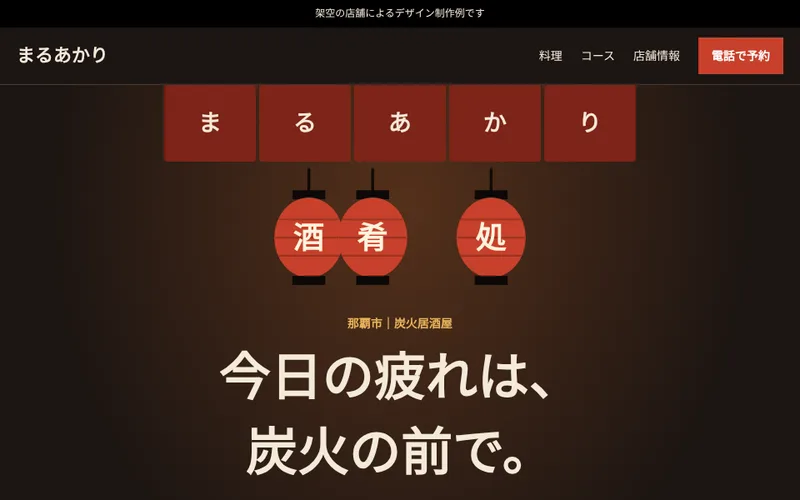
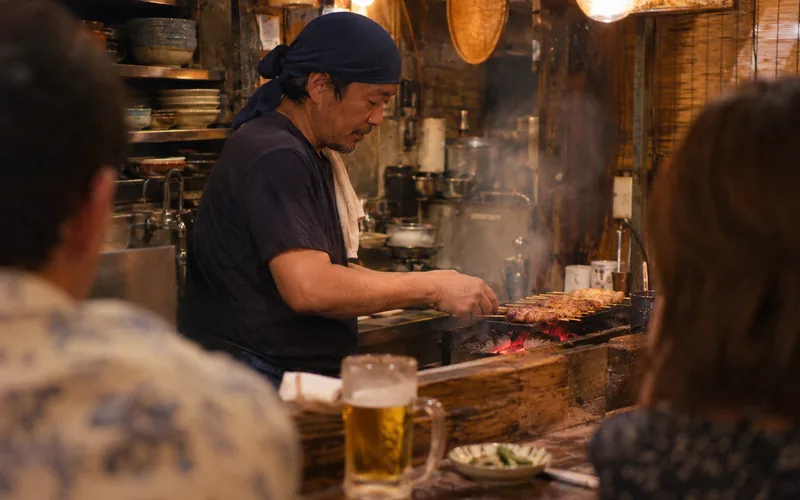
まるあかり: 自作イラストを生成写真に差し替え、写真中心のデザインに変更
Claude-Session: https://claude.ai/code/session_01K3RG3jWkUuDhs7smsqdQjQ

diff --git a/izakaya-lp/index.html b/izakaya-lp/index.html
@@ -7,6 +7,7 @@
 <meta name="description" content="那覇市の炭火居酒屋を想定したページです。焼き鳥と島の料理、宴会コース。※架空の店舗によるデザイン制作例です。">
 <link rel="canonical" href="https://agarieyrn-create.github.io/izakaya-lp/">
 <meta property="og:url" content="https://agarieyrn-create.github.io/izakaya-lp/">
+<meta property="og:image" content="https://agarieyrn-create.github.io/izakaya-lp/img/og.jpg">
 <meta property="og:type" content="website">
 <meta property="og:title" content="炭火居酒屋 まるあかり（架空の店舗）">
 <meta property="og:description" content="炭火焼き鳥と島の料理。※架空の店舗によるデザイン制作例です。">
@@ -16,7 +17,6 @@
 <link href="https://fonts.googleapis.com/css2?family=Noto+Sans+JP:wght@400;500;700&family=Noto+Serif+JP:wght@700;900&display=swap" rel="stylesheet">
 <link rel="stylesheet" href="style.css">
 <link rel="stylesheet" href="motion.css">
-<link rel="stylesheet" href="extra.css">
 </head>
 <body>
 <p class="demo">架空の店舗によるデザイン制作例です</p>
@@ -24,9 +24,8 @@
 
 <main id="top">
   <div class="hero">
-    <div class="noren" aria-hidden="true"><i>ま</i><i>る</i><i>あ</i><i>か</i><i>り</i></div>
+    <div class="shot"><img src="img/counter.webp" srcset="img/counter-800.webp 800w, img/counter.webp 1536w" sizes="100vw" width="1536" height="1024" alt="炭火の焼き台で焼き鳥を返す大将と、カウンターで待つ客の後ろ姿（イメージ）" fetchpriority="high"></div>
     <div class="wrap">
-      <svg class="lanterns" viewBox="0 0 300 140" aria-hidden="true"><g transform="translate(10,0)"><g class="lan a"><path class="cord" d="M40 0v26"/><rect class="cap" x="22" y="24" width="36" height="10"/><ellipse class="paper" cx="40" cy="76" rx="38" ry="44"/><path class="rib" d="M7 56h66M3 76h74M7 96h66"/><rect class="cap" x="22" y="118" width="36" height="10"/><text x="40" y="88">酒</text></g></g><g transform="translate(80,0)"><g class="lan b"><path class="cord" d="M40 0v26"/><rect class="cap" x="22" y="24" width="36" height="10"/><ellipse class="paper" cx="40" cy="76" rx="38" ry="44"/><path class="rib" d="M7 56h66M3 76h74M7 96h66"/><rect class="cap" x="22" y="118" width="36" height="10"/><text x="40" y="88">肴</text></g></g><g transform="translate(210,0)"><g class="lan c"><path class="cord" d="M40 0v26"/><rect class="cap" x="22" y="24" width="36" height="10"/><ellipse class="paper" cx="40" cy="76" rx="38" ry="44"/><path class="rib" d="M7 56h66M3 76h74M7 96h66"/><rect class="cap" x="22" y="118" width="36" height="10"/><text x="40" y="88">処</text></g></g></svg>
       <div class="copy">
         <p class="sub">那覇市｜炭火居酒屋</p>
         <h1>今日の疲れは、<br>炭火の前で。</h1>
@@ -37,22 +36,26 @@
     </div>
   </div>
 
-  <section class="x-sec x-demo x-fire" data-demo="4000,5000,4000">
-    <div class="wrap">
-      <p class="label">01　炭火</p>
+  <section class="fire" id="fire">
+    <div class="fire-shot"><img src="img/sumibi.webp" srcset="img/sumibi-800.webp 800w, img/sumibi.webp 1536w" sizes="(max-width:820px) 100vw, 62vw" width="1536" height="1024" alt="赤く熾った炭の上で、焼き鳥の串を返す手元（イメージ）" data-nopar><div class="embers" aria-hidden="true"></div><button type="button" class="stop" hidden>動きを止める</button></div>
+    <div class="fire-text">
       <h2>一本ずつ、<br>目の前で焼きます。</h2>
-      <div class="x-grid">
-        <div class="x-stage"><svg viewBox="0 0 280 240" aria-hidden="true"><g class="glow"><ellipse cx="140" cy="186" rx="118" ry="34"/></g><rect x="24" y="168" width="232" height="46" rx="8" fill="#3a3330"/><g class="coal"><circle cx="56" cy="178" r="13"/><circle cx="86" cy="186" r="13"/><circle cx="116" cy="176" r="13"/><circle cx="146" cy="186" r="13"/><circle cx="176" cy="176" r="13"/><circle cx="206" cy="186" r="13"/><circle cx="230" cy="176" r="13"/></g><g class="flame"><path d="M80 172q-16-18 0-44q18 26 0 44z"/><path d="M140 172q-16-18 0-44q18 26 0 44z"/><path d="M200 172q-16-18 0-44q18 26 0 44z"/></g><g class="smoke"><path d="M96 80q-18-20 0-40"/><path d="M142 74q18-22 0-46"/><path d="M188 80q-16-18 0-38"/></g><g class="skewer"><path d="M20 112h240" stroke="#c9a46a" stroke-width="4" stroke-linecap="round"/><rect x="52" y="100" width="24" height="24" rx="8" fill="#9c5422"/><path d="M57 107l12 10" stroke="#4d2410" stroke-width="3"/><rect x="80" y="100" width="24" height="24" rx="8" fill="#9c5422"/><path d="M85 107l12 10" stroke="#4d2410" stroke-width="3"/><rect x="108" y="100" width="24" height="24" rx="8" fill="#9c5422"/><path d="M113 107l12 10" stroke="#4d2410" stroke-width="3"/><rect x="134" y="100" width="24" height="24" rx="8" fill="#9c5422"/><path d="M139 107l12 10" stroke="#4d2410" stroke-width="3"/><g transform="translate(80,0)"><rect x="80" y="100" width="24" height="24" rx="8" fill="#9c5422"/><rect x="108" y="100" width="24" height="24" rx="8" fill="#9c5422"/></g></g><g class="sauce"><path d="M92 30q14 30 40 66"/></g></svg></div>
-        <div><div class="x-tabs" role="group" aria-label="工程を選ぶ"><button type="button" data-go="0" aria-pressed="false">仕込む</button><button type="button" data-go="1" aria-pressed="false">焼く</button><button type="button" data-go="2" aria-pressed="false">仕上げる</button></div><div class="x-panels"><div data-panel="0"><b>昼のうちに、串打ち</b><p>大きさをそろえて、一本ずつ串に刺します。</p></div><div data-panel="1"><b>炭火で、じっくり</b><p>火の近くで返しながら、外は香ばしく、中はふっくら。</p></div><div data-panel="2"><b>塩か、たれで</b><p>焼きたてを、そのままお席へお運びします。</p></div></div><button type="button" class="x-play" data-play>動きを止める</button></div>
-      </div>
+      <ol class="steps3">
+        <li><b>昼のうちに、串打ち</b>大きさをそろえて、一本ずつ串に刺します。</li>
+        <li><b>炭火で、じっくり</b>返しながら、外は香ばしく、中はふっくら。</li>
+        <li><b>塩か、たれで</b>焼きたてを、そのままお席へお運びします。</li>
+      </ol>
     </div>
   </section>
 
   <section class="sec tint" id="menu">
     <div class="wrap">
-      <p class="label">02　料理</p>
       <h2>まずは、この三品。</h2>
-      <div class="dishes"><div class="item dish"><div class="art"><svg viewBox="0 0 200 130" aria-hidden="true"><ellipse cx="100" cy="92" rx="86" ry="28" fill="#e9e1d2"/><ellipse cx="100" cy="88" rx="68" ry="20" fill="#d8cdb9"/><path d="M30 66h140" stroke="#c9a46a" stroke-width="4" stroke-linecap="round"/><rect x="52" y="54" width="24" height="24" rx="8" fill="#9c5422"/><path d="M57 61l12 10" stroke="#4d2410" stroke-width="3"/><rect x="80" y="54" width="24" height="24" rx="8" fill="#9c5422"/><path d="M85 61l12 10" stroke="#4d2410" stroke-width="3"/><rect x="108" y="54" width="24" height="24" rx="8" fill="#9c5422"/><path d="M113 61l12 10" stroke="#4d2410" stroke-width="3"/><rect x="134" y="54" width="24" height="24" rx="8" fill="#9c5422"/><path d="M139 61l12 10" stroke="#4d2410" stroke-width="3"/><path d="M30 94h140" stroke="#c9a46a" stroke-width="4" stroke-linecap="round"/><rect x="52" y="82" width="24" height="24" rx="8" fill="#9c5422"/><path d="M57 89l12 10" stroke="#4d2410" stroke-width="3"/><rect x="80" y="82" width="24" height="24" rx="8" fill="#9c5422"/><path d="M85 89l12 10" stroke="#4d2410" stroke-width="3"/><rect x="108" y="82" width="24" height="24" rx="8" fill="#9c5422"/><path d="M113 89l12 10" stroke="#4d2410" stroke-width="3"/><rect x="134" y="82" width="24" height="24" rx="8" fill="#9c5422"/><path d="M139 89l12 10" stroke="#4d2410" stroke-width="3"/></svg></div><h3>炭火焼き鳥 盛り合わせ</h3><p>5本　塩・たれ</p><em>¥880</em></div><div class="item dish"><div class="art"><svg viewBox="0 0 200 130" aria-hidden="true"><ellipse cx="100" cy="92" rx="86" ry="28" fill="#e9e1d2"/><ellipse cx="100" cy="88" rx="68" ry="20" fill="#d8cdb9"/><path d="M48 88q8-46 52-44t54 44q-52 22-106 0z" fill="#6f9a3c"/><circle cx="72" cy="76" r="9" fill="none" stroke="#4f7a28" stroke-width="5"/><circle cx="112" cy="62" r="9" fill="none" stroke="#4f7a28" stroke-width="5"/><circle cx="132" cy="82" r="9" fill="none" stroke="#4f7a28" stroke-width="5"/><rect x="86" y="72" width="17" height="14" rx="3" fill="#f4e7c4"/><rect x="98" y="86" width="17" height="14" rx="3" fill="#f2c230"/><rect x="62" y="86" width="17" height="14" rx="3" fill="#f4e7c4"/><rect x="108" y="76" width="17" height="14" rx="3" fill="#c9775a"/></svg></div><h3>ゴーヤーチャンプルー</h3><p>島豆腐と卵で</p><em>¥780</em></div><div class="item dish"><div class="art"><svg viewBox="0 0 200 130" aria-hidden="true"><ellipse cx="100" cy="92" rx="86" ry="28" fill="#e9e1d2"/><ellipse cx="100" cy="88" rx="68" ry="20" fill="#d8cdb9"/><path d="M52 64l22-10 22 10v20l-22 10-22-10z" fill="#ede6f0"/><path d="M52 64l22 10 22-10-22-10z" fill="#fbf8fc"/><path d="M104 70l22-10 22 10v20l-22 10-22-10z" fill="#ede6f0"/><path d="M104 70l22 10 22-10-22-10z" fill="#fbf8fc"/><circle cx="122" cy="66" r="7" fill="#6f9a3c"/></svg></div><h3>自家製ジーマーミ豆腐</h3><p>もっちり、甘めのたれで</p><em>¥480</em></div></div>
+      <div class="dishes">
+        <figure class="item dish big"><img src="img/yakitori.webp" srcset="img/yakitori-800.webp 800w, img/yakitori.webp 1536w" sizes="(max-width:820px) 100vw, 960px" width="1536" height="1024" alt="焼き物の角皿に並んだ焼き鳥5本とレモン（イメージ）"><figcaption><h3>炭火焼き鳥 盛り合わせ</h3><em>¥880</em><p>5本　塩・たれ</p></figcaption></figure>
+        <figure class="item dish"><img src="img/goya.webp" srcset="img/goya-800.webp 800w, img/goya.webp 1536w" sizes="(max-width:820px) 100vw, 470px" width="1536" height="1024" alt="やちむんの皿に盛ったゴーヤーチャンプルー（イメージ）"><figcaption><h3>ゴーヤーチャンプルー</h3><em>¥780</em><p>島豆腐と卵、ポークで</p></figcaption></figure>
+        <figure class="item dish"><img src="img/jimami.webp" srcset="img/jimami-800.webp 800w, img/jimami.webp 1536w" sizes="(max-width:820px) 100vw, 470px" width="1536" height="1024" alt="小鉢に盛ったジーマーミ豆腐とわさび（イメージ）"><figcaption><h3>自家製ジーマーミ豆腐</h3><em>¥480</em><p>もっちり、甘めのたれで</p></figcaption></figure>
+      </div>
       <div class="price">
         <div class="row"><div>ラフテー</div><em>¥850</em></div>
         <div class="row"><div>海ぶどう</div><em>¥680</em></div>
@@ -61,13 +64,12 @@
         <div class="row"><div>泡盛（グラス）</div><em>¥450</em></div>
         <div class="row"><div>シークヮーサージュース</div><em>¥380</em></div>
       </div>
-      <p class="note">※料金は税込です。料理の絵はイメージです。すべて架空の内容です。</p>
+      <p class="note">※料金は税込です。写真はイメージです。すべて架空の内容です。</p>
     </div>
   </section>
 
   <section class="sec" id="course">
     <div class="wrap">
-      <p class="label">03　宴会コース</p>
       <h2>人数を入れると、<br>合計がわかります。</h2>
       <div class="calc">
         <fieldset><legend>コース</legend>
@@ -85,7 +87,6 @@
 
   <section class="sec tint" id="info">
     <div class="wrap">
-      <p class="label">04　店舗情報</p>
       <h2>お待ちしています。</h2>
       <dl>
         <div class="row"><dt>住所</dt><dd>沖縄県那覇市○○1-2-3（架空）</dd></div>
@@ -105,11 +106,11 @@
   </section>
 </main>
 
-<footer><div class="wrap">このページは、架空の居酒屋「まるあかり」によるデザイン制作例です。住所・電話番号・料金を含む掲載情報はすべて架空で、実在の店舗とは関係ありません。<p class="back"><a href="https://agarieyrn-create.github.io/">制作サイト一覧へ戻る</a></p></div></footer>
+<footer><div class="wrap">このページは、架空の居酒屋「まるあかり」によるデザイン制作例です。住所・電話番号・料金を含む掲載情報はすべて架空で、実在の店舗とは関係ありません。写真は画像生成AIで作成したイメージで、実在の人物・店・料理を撮影したものではありません。<p class="back"><a href="https://agarieyrn-create.github.io/">制作サイト一覧へ戻る</a></p></div></footer>
 <nav class="bar" aria-label="ご予約"><a class="main" href="#" data-link="tel">電話で予約</a><a href="#" data-link="map">地図</a></nav>
 <script src="links.js" defer></script>
 <script src="motion.js" defer></script>
-<script src="extra.js" defer></script>
+<script src="fire.js" defer></script>
 <script src="calc.js" defer></script>
 </body>
 </html>

diff --git a/izakaya-lp/style.css b/izakaya-lp/style.css
@@ -3,7 +3,7 @@
 html{scroll-behavior:smooth;scroll-padding-top:16px}
 body{font-family:"Noto Sans JP",sans-serif;background:var(--bg);color:var(--ink);line-height:1.9;font-size:16px;-webkit-font-smoothing:antialiased}
 a{color:inherit}
-h1,h2,.brand,.noren{font-family:"Noto Serif JP",serif}
+h1,h2,.brand{font-family:"Noto Serif JP",serif}
 .wrap{max-width:1000px;margin:0 auto;padding:0 20px}
 .demo{background:#000;text-align:center;font-size:12px;padding:5px}
 header{border-bottom:1px solid var(--line)}
@@ -12,27 +12,56 @@ header .wrap{display:flex;justify-content:space-between;align-items:center;min-h
 header nav{display:flex;gap:22px;align-items:center;font-size:14px}
 header nav a{text-decoration:none}
 .btn-s{background:var(--accent);color:#fff;padding:9px 16px;font-weight:700;white-space:nowrap}
-.hero{position:relative;text-align:center;padding:0 0 64px;overflow:hidden;background:radial-gradient(ellipse at 50% 20%,rgba(233,120,50,.28),transparent 62%)}
-.noren{display:flex;justify-content:center;gap:4px;height:92px}
-.noren i{font-style:normal;font-weight:900;font-size:28px;width:min(19%,110px);background:#7d2418;display:grid;place-items:center;border-radius:0 0 4px 4px;transform-origin:top}
-.lanterns{display:block;width:min(100%,360px);margin:8px auto 20px;padding:0 16px;overflow:visible}
-.lan .paper{fill:var(--accent)}.lan .rib{stroke:rgba(0,0,0,.22);stroke-width:2;fill:none}.lan .cap{fill:#0d0908}.lan .cord{stroke:#0d0908;stroke-width:3}
-.lan text{font:900 34px "Noto Serif JP",serif;fill:#fff3dd;text-anchor:middle}
-.sub{color:var(--gold);font-weight:700;font-size:14px}
+.hero{position:relative;padding-bottom:48px}
+.shot{overflow:hidden;aspect-ratio:3/2;max-height:78vh;width:100%}
+.shot img{display:block;width:100%;height:100%;object-fit:cover;object-position:45% 35%}
+@media(min-width:1100px){
+  .hero{display:flex;align-items:flex-end;min-height:min(680px,66.6vw);padding:0;overflow:hidden}
+  .shot{position:absolute;inset:0;aspect-ratio:auto;max-height:none}
+  .shot::after{content:"";position:absolute;inset:0;background:linear-gradient(90deg,rgba(15,9,6,.86) 0,rgba(15,9,6,.62) 36%,transparent 64%),linear-gradient(0deg,rgba(15,9,6,.7),transparent 45%);z-index:1}
+  .shot img{object-position:center 30%}
+  .hero .wrap{position:relative;z-index:2;width:100%;max-width:none;padding:0 clamp(40px,5vw,110px) 48px}
+  .hero .copy{max-width:480px}
+  .hero .actions .btn{flex:1 1 100%}
+  h1{font-size:clamp(36px,4.2vw,52px)}
+}
+.sub{color:var(--gold);font-weight:700;font-size:14px;margin-top:24px}
+@media(min-width:1100px){.sub{margin:0}}
+@media(max-width:1099px){.hero .wrap{max-width:720px}.fire{grid-template-columns:1fr}.fire-text{padding:32px 20px 48px;width:100%;max-width:720px;margin:0 auto}}
 h1{font-size:clamp(34px,7vw,62px);line-height:1.45;margin-top:8px}
 h2{font-size:clamp(26px,4vw,38px);line-height:1.55}
 .lead,.hours{margin-top:16px}.hours{font-size:14px;color:#cdbca6}
 .actions{display:flex;flex-wrap:wrap;gap:12px;margin-top:28px}
-.hero .actions{justify-content:center}
 .btn{display:inline-block;text-decoration:none;font-weight:700;padding:15px 26px;border:2px solid var(--ink);text-align:center;line-height:1.6}
 .btn.primary{background:var(--accent);border-color:var(--accent);color:#fff}
 .sec{padding:72px 0}.tint{background:var(--tint)}
 .label{font-size:13px;letter-spacing:.2em;color:var(--gold);margin-bottom:10px}
 .note{margin-top:14px;font-size:12px;color:#bfae98}
-.dishes{display:grid;grid-template-columns:repeat(3,1fr);gap:20px;margin-top:32px}
-.dish{border:1px solid var(--line);padding:16px;background:var(--bg)}
-.dish svg{display:block;width:100%}
-.dish h3{font-size:17px;margin-top:8px}.dish p{font-size:14px;color:#cdbca6}
+.dishes{display:grid;grid-template-columns:1fr 1fr;gap:40px 20px;margin-top:32px}
+.dish.big{grid-column:1/-1}
+.dish img{display:block;width:100%;height:auto}
+.dish figcaption{display:grid;grid-template-columns:1fr auto;align-items:baseline;column-gap:16px;padding-top:12px}
+.dish h3{font-family:"Noto Serif JP",serif;font-size:19px;line-height:1.6}.dish p{grid-column:1/-1;font-size:14px;color:#cdbca6;line-height:1.7}
+.fire{display:grid;grid-template-columns:62% 1fr;align-items:center;background:#0e0907}
+.fire-shot{position:relative;overflow:hidden;aspect-ratio:3/2;max-height:82vh;width:100%}
+.fire-shot img{display:block;width:100%;height:100%;object-fit:cover}
+.fire-text{padding:40px clamp(20px,4vw,56px)}
+.steps3{list-style:none;margin-top:24px}
+.steps3 li{padding:14px 0;border-top:1px solid var(--line);font-size:14px;color:#cdbca6}
+.steps3 b{display:block;font-size:17px;color:var(--ink)}
+.embers{position:absolute;inset:0;pointer-events:none}
+.embers::before{content:"";position:absolute;left:30%;right:0;top:55%;bottom:0;background:radial-gradient(ellipse at 55% 55%,rgba(255,105,25,.5),transparent 62%);mix-blend-mode:screen;opacity:0}
+.embers i{position:absolute;width:3px;height:3px;border-radius:50%;background:#ffc06a;box-shadow:0 0 6px 2px rgba(255,120,30,.7);opacity:0}
+.stop{position:absolute;right:10px;bottom:10px;font:inherit;font-size:13px;line-height:1.4;min-height:44px;padding:8px 14px;background:rgba(0,0,0,.65);color:#fff;border:1px solid rgba(255,255,255,.6);cursor:pointer}
+@media(prefers-reduced-motion:no-preference){
+  .fire.run .embers::before{animation:glow 2.8s ease-in-out infinite alternate}
+  .fire.run .embers i{animation:rise var(--t) linear var(--dl) infinite}
+  .fire.run img{animation:slow 18s ease-in-out infinite alternate}
+  .fire.paused *,.fire.paused *::before{animation-play-state:paused!important}
+}
+@keyframes glow{0%{opacity:.15}55%{opacity:.6}100%{opacity:.3}}
+@keyframes rise{0%{transform:translate(0,0);opacity:0}15%{opacity:1}100%{transform:translate(var(--dx),-170px);opacity:0}}
+@keyframes slow{to{transform:scale(1.08)}}
 .dish em,.price em{font-style:normal;font-weight:700;color:var(--gold)}
 .price{margin-top:32px;border-top:1px solid var(--line);display:grid;grid-template-columns:1fr 1fr;column-gap:40px}
 .price .row{display:flex;justify-content:space-between;gap:16px;padding:13px 0;border-bottom:1px solid var(--line)}

diff --git a/index.html b/index.html
@@ -143,7 +143,7 @@ footer{padding:48px 0 72px;font-size:12px;color:var(--mute)}
           <a class="thumb" href="https://agarieyrn-create.github.io/izakaya-lp/" tabindex="-1" aria-hidden="true"><img src="thumbs/izakaya-lp.webp" width="800" height="500" alt="" loading="lazy" decoding="async"></a>
           <div>
             <h3>炭火居酒屋 まるあかり</h3>
-            <p>那覇市の炭火居酒屋を想定したLP。暖簾と提灯、炭火で焼く動きに加え、コースと人数から合計額の目安が出る仕組みつき。（架空の店舗）</p>
+            <p>那覇市の炭火居酒屋を想定したLP。大きな料理写真と炭火の火の粉の動き、コースと人数から合計額の目安が出る仕組みつき。（架空の店舗）</p>
             <span class="host">agarieyrn-create.github.io/izakaya-lp</span>
           </div>
           <a class="go" href="https://agarieyrn-create.github.io/izakaya-lp/">サイトを見る</a>
@@ -192,7 +192,7 @@ footer{padding:48px 0 72px;font-size:12px;color:var(--mute)}
   </main>
 
   <footer>
-    Lumi Salon・ひなた整体院・Nagi Coffee・Studio RYU・おだやかAI教室・炭火居酒屋 まるあかり は架空の店舗・団体、シェンターンは架空の商品です。掲載の住所・電話番号・料金・人物はすべて架空で、画像は画像生成によるイメージです（まるあかりは自作のイラスト）。コーラの魅力LPは非公式のファンページで、特定の企業・ブランドとは関係ありません。
+    Lumi Salon・ひなた整体院・Nagi Coffee・Studio RYU・おだやかAI教室・炭火居酒屋 まるあかり は架空の店舗・団体、シェンターンは架空の商品です。掲載の住所・電話番号・料金・人物はすべて架空で、画像は画像生成によるイメージです。コーラの魅力LPは非公式のファンページで、特定の企業・ブランドとは関係ありません。
   </footer>
 </div>
 </body>

diff --git a/izakaya-lp/fire.js b/izakaya-lp/fire.js
@@ -1,0 +1,20 @@
+/* 炭火の写真に火の粉を足す。画面内にある間だけ動き、ボタンで止められる */
+(function () {
+  var box = document.querySelector('.fire'); if (!box) return;
+  if (window.matchMedia('(prefers-reduced-motion: reduce)').matches) return;
+  var layer = box.querySelector('.embers'), btn = box.querySelector('.stop');
+  for (var i = 0; i < 16; i++) {
+    var e = document.createElement('i');
+    e.style.cssText = 'left:' + (42 + (i * 23) % 45) + '%;top:' + (66 + (i * 11) % 20) + '%;--t:' + (2.2 + (i % 5) * 0.5) + 's;--dl:-' + ((i * 0.61) % 4).toFixed(2) + 's;--dx:' + (((i * 29) % 70) - 35) + 'px';
+    layer.appendChild(e);
+  }
+  var playing = true, seen = !('IntersectionObserver' in window);
+  function sync() {
+    box.classList.toggle('paused', !(playing && seen));
+    btn.textContent = playing ? '動きを止める' : '再生する';
+  }
+  btn.hidden = false;
+  btn.addEventListener('click', function () { playing = !playing; sync(); });
+  box.classList.add('run'); sync();
+  if (!seen) new IntersectionObserver(function (e) { seen = e[e.length - 1].isIntersecting; sync(); }, { threshold: 0.2 }).observe(box);
+})();
